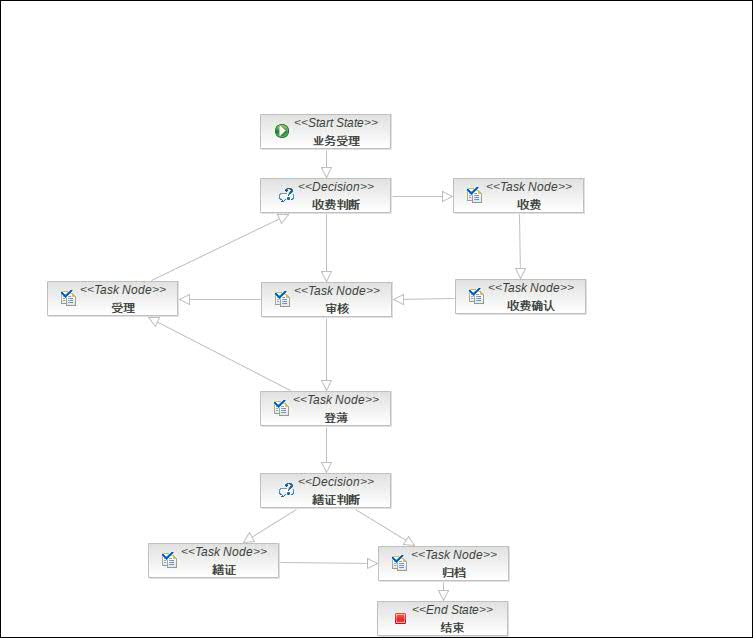
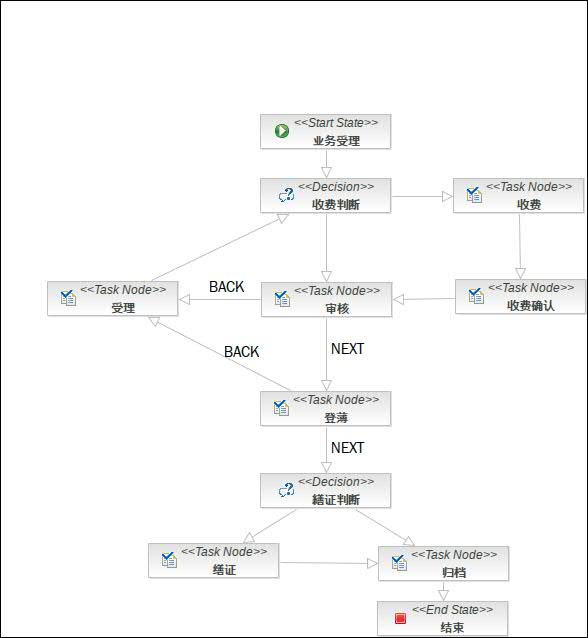
business begin

diff --git a/src/main/java/com/dgsoft/house/owner/business/CheckTaskHandle.java b/src/main/java/com/dgsoft/house/owner/business/CheckTaskHandle.java
@@ -1,0 +1,61 @@
+package com.dgsoft.house.owner.business;
+
+import com.dgsoft.common.system.business.TaskPublish;
+import com.dgsoft.house.owner.action.OwnerBusinessHome;
+import org.jboss.seam.ScopeType;
+import org.jboss.seam.annotations.*;
+import org.jboss.seam.annotations.bpm.EndTask;
+
+/**
+ * Created by cooper on 9/9/14.
+ */
+@Name("checkTaskHandle")
+@Scope(ScopeType.CONVERSATION)
+public class CheckTaskHandle {
+
+    @In
+    private TaskPublish taskPublish;
+
+    @In(scope = ScopeType.BUSINESS_PROCESS)
+    @Out(scope = ScopeType.BUSINESS_PROCESS)
+    private String lastCheckComments;
+
+    public String getLastCheckComments() {
+        return lastCheckComments;
+    }
+
+    public void setLastCheckComments(String lastCheckComments) {
+        this.lastCheckComments = lastCheckComments;
+    }
+
+    @Create
+    public void init(){
+        lastCheckComments = "";
+    }
+
+    @Transactional
+    @EndTask(transition = "NEXT")
+    public String accept() {
+        if ("success".equals(taskPublish.save())) {
+            return completeTask();
+        }
+        return null;
+    }
+
+    @Transactional
+    @EndTask(transition = "BACK")
+    public String unAccept(){
+        return "taskCompleted";
+    }
+
+    @In
+    private OwnerBusinessHome ownerBusinessHome;
+
+    protected String completeTask() {
+        if ("updated".equals(ownerBusinessHome.update())){
+            return "taskCompleted";
+        }
+        return null;
+    }
+
+}

diff --git a/src/main/java/com/dgsoft/house/owner/business/BackTaskHandle.java b/src/main/java/com/dgsoft/house/owner/business/BackTaskHandle.java
@@ -10,23 +10,29 @@ import org.jboss.seam.annotations.Transactional;
 import org.jboss.seam.annotations.bpm.EndTask;
 
 /**
- * Created by cooper on 9/4/14.
+ * Created by cooper on 9/9/14.
  */
-@Name("ownerTaskHandle")
+@Name("backTaskHandle")
 @Scope(ScopeType.CONVERSATION)
-public class OwnerTaskHandle{
+public class BackTaskHandle {
 
     @In
     private TaskPublish taskPublish;
 
 
     @Transactional
-    @EndTask
+    @EndTask(transition = "NEXT")
     public String complete() {
         if ("success".equals(taskPublish.save())) {
             return completeTask();
         }
         return null;
+    }
+
+    @Transactional
+    @EndTask(transition = "BACK")
+    public String back(){
+        return "taskCompleted";
     }
 
     @In
@@ -38,6 +44,5 @@ public class OwnerTaskHandle{
         }
         return null;
     }
-
 
 }

diff --git a/src/main/java/com/dgsoft/house/owner/business/HouseBusinessStart.java b/src/main/java/com/dgsoft/house/owner/business/HouseBusinessStart.java
@@ -54,6 +54,7 @@ public class HouseBusinessStart {
 
     private void initBusinessData(){
         ownerBusinessHome.getInstance().setId(NumberBuilder.instance().getDayNumber("businessId"));
+        Logging.getLog(getClass()).debug("business id is:" + ownerBusinessHome.getInstance().getId());
         ownerBusinessHome.getInstance().setDefineId(businessDefineHome.getInstance().getId());
         ownerBusinessHome.getInstance().setDefineName(businessDefineHome.getInstance().getName());
 
